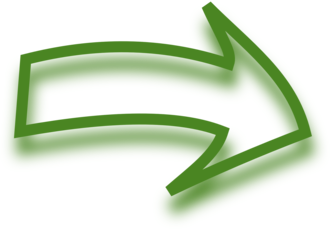
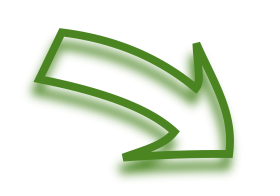
the 1st screen

diff --git a/index.html b/index.html
@@ -62,7 +62,7 @@ Make EVENT
 </div>
 <!--MENU SECTION END-->
 <!--HOME SECTION START-->
-<div id="home" >
+<!-- <div id="home" >
 <div class="container">
 <div></div>
 <div class="row">
@@ -104,7 +104,7 @@ Make EVENT
 
 
 </div>
-</div>
+</div> -->
 <!-- <div class="row animate-in" data-anim-type="fade-in-up">
 <div class="col-sm-8 col-sm-offset-2 col-md-8 col-md-offset-2 col-lg-8 col-lg-offset-2 scroll-me"> -->
 
@@ -133,81 +133,35 @@ This line is fixed so you can write anything -->
 <div class="container">
 <div class="row text-center header">
 <div class="col-xs-12 col-sm-12 col-md-12 col-lg-12 animate-in" data-anim-type="fade-in-up">
-<h3>Послуги</h3>
-<hr />
+<!-- <h3>Послуги</h3>
+<hr /> -->
 </div>
 </div>
 <div class="row animate-in" data-anim-type="fade-in-up">
 <div class="col-xs-12 col-sm-4 col-md-4 col-lg-4">
 <div class="services-wrapper">
-<i class="ion-document"></i>
-<h3>Consectetur tellus nec</h3>
-Morbi mollis lectus et ipsum sollicitudin varius.
-Aliquam tempus ante placerat, consectetur tellus nec, porttitor nulla.
+<h3>Ищите клиентов? НО….</h3>
 </div>
 </div>
 <div class="col-xs-12 col-sm-4 col-md-4 col-lg-4">
-<div class="services-wrapper">
-<i class="ion-scissors"></i>
-<h3>Consectetur tellus nec</h3>
-Morbi mollis lectus et ipsum sollicitudin varius.
-Aliquam tempus ante placerat, consectetur tellus nec, porttitor nulla.
+<img class="green-arrow" src="assets/img/green-arrow.png" alt="green arrow">
+</div>
+<div class="col-xs-12 col-sm-4 col-md-4 col-lg-4">
+<div class="services-wrapper-2">
+<p class="bad-sales" style="font-size: 18px">Менеджеры по продажам плохо справляются со своими задачами</p>
 </div>
 </div>
 <div class="col-xs-12 col-sm-4 col-md-4 col-lg-4">
-<div class="services-wrapper">
-<i class="ion-clipboard"></i>
-<h3>Consectetur tellus nec</h3>
-Morbi mollis lectus et ipsum sollicitudin varius.
-Aliquam tempus ante placerat, consectetur tellus nec, porttitor nulla.
+<div class="services-wrapper-4">
+<h3>Решение, которое предлагает <br><span>Make Event</span></h3>
 </div>
 </div>
 <div class="col-xs-12 col-sm-4 col-md-4 col-lg-4">
-<div class="services-wrapper">
-<i class="ion-calendar"></i>
-<h3>Consectetur tellus nec</h3>
-Morbi mollis lectus et ipsum sollicitudin varius.
-Aliquam tempus ante placerat, consectetur tellus nec, porttitor nulla.
-</div>
+    <img src="assets/img/Yellow-arrow.png" alt="Yellow arrow">
 </div>
 <div class="col-xs-12 col-sm-4 col-md-4 col-lg-4">
-<div class="services-wrapper">
-<i class="ion-erlenmeyer-flask"></i>
-<h3>Consectetur tellus nec</h3>
-Morbi mollis lectus et ipsum sollicitudin varius.
-Aliquam tempus ante placerat, consectetur tellus nec, porttitor nulla.
-</div>
-</div>
-<div class="col-xs-12 col-sm-4 col-md-4 col-lg-4">
-<div class="services-wrapper">
-<i class="ion-monitor"></i>
-<h3>Consectetur tellus nec</h3>
-Morbi mollis lectus et ipsum sollicitudin varius.
-Aliquam tempus ante placerat, consectetur tellus nec, porttitor nulla.
-</div>
-</div>
-<div class="col-xs-12 col-sm-4 col-md-4 col-lg-4">
-<div class="services-wrapper">
-<i class="ion-pinpoint"></i>
-<h3>Consectetur tellus nec</h3>
-Morbi mollis lectus et ipsum sollicitudin varius.
-Aliquam tempus ante placerat, consectetur tellus nec, porttitor nulla.
-</div>
-</div>
-<div class="col-xs-12 col-sm-4 col-md-4 col-lg-4">
-<div class="services-wrapper">
-<i class="ion-tshirt-outline"></i>
-<h3>Consectetur tellus nec</h3>
-Morbi mollis lectus et ipsum sollicitudin varius.
-Aliquam tempus ante placerat, consectetur tellus nec, porttitor nulla.
-</div>
-</div>
-<div class="col-xs-12 col-sm-4 col-md-4 col-lg-4">
-<div class="services-wrapper">
-<i class="ion-speedometer"></i>
-<h3>Consectetur tellus nec</h3>
-Morbi mollis lectus et ipsum sollicitudin varius.
-Aliquam tempus ante placerat, consectetur tellus nec, porttitor nulla.
+<div class="services-wrapper-3">
+<p style="font-size: 18px">Реклама истощает бюджет и не дает ожидаемый результат</p>
 </div>
 </div>
 </div>

diff --git a/assets/css/style-green.css b/assets/css/style-green.css
@@ -183,6 +183,51 @@ cursor: pointer;
 transition: all 0.5s ease-in-out;
 }
 
+#services .services-wrapper-2 {
+    padding: 20px;
+    border-radius: 5px;
+    -moz-border-radius: 5px;
+    -webkit-border-radius: 5px;
+    margin-bottom: 40px;
+    margin-top: 180px;
+    background-color: rgba(255, 255, 255, 0.07);
+    cursor: pointer;
+    -webkit-transition: all 0.5s ease-in-out;
+    -moz-transition: all 0.5s ease-in-out;
+    -o-transition: all 0.5s ease-in-out;
+    transition: all 0.5s ease-in-out;
+    }
+
+    #services .services-wrapper-3 {
+        padding: 20px;
+        border-radius: 5px;
+        -moz-border-radius: 5px;
+        -webkit-border-radius: 5px;
+        margin-bottom: 40px;
+        /* margin-top: 180px; */
+        background-color: rgba(255, 255, 255, 0.07);
+        cursor: pointer;
+        -webkit-transition: all 0.5s ease-in-out;
+        -moz-transition: all 0.5s ease-in-out;
+        -o-transition: all 0.5s ease-in-out;
+        transition: all 0.5s ease-in-out;
+        }
+
+        #services .services-wrapper-4 {
+            padding: 20px;
+            border-radius: 5px;
+            -moz-border-radius: 5px;
+            -webkit-border-radius: 5px;
+            margin-bottom: 40px;
+            margin-top: 90px;
+            background-color: rgba(255, 255, 255, 0.07);
+            cursor: pointer;
+            -webkit-transition: all 0.5s ease-in-out;
+            -moz-transition: all 0.5s ease-in-out;
+            -o-transition: all 0.5s ease-in-out;
+            transition: all 0.5s ease-in-out;
+            }
+
 #services .services-wrapper:hover {
 background-color: rgba(255, 255, 255, 0.20);
 }

diff --git a/assets/css/bootstrap.css b/assets/css/bootstrap.css
@@ -121,6 +121,11 @@ textarea {
 button {
   overflow: visible;
 }
+
+.green-arrow {
+  margin-top: 80px;
+}
+
 button,
 select {
   text-transform: none;
